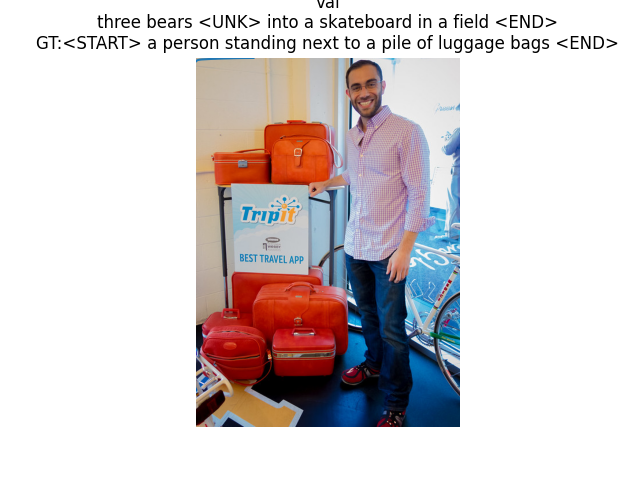
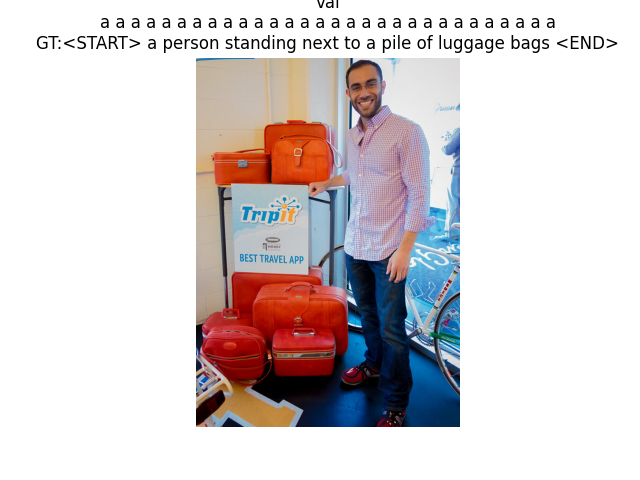
swiglu done

Changed region(s): [[0.1562, 0.0312, 0.875, 0.0625]]

diff --git a/transformer_captioning/transformer.py b/transformer_captioning/transformer.py
@@ -6,6 +6,24 @@ import torch
 import torch.nn as nn
 from torch.nn import functional as F
 
+class SwiGLU(nn.Module):
+    def __init__(self, input_dim=None, hidden_dim=None):
+        super().__init__()
+
+        self.filter = nn.Linear(input_dim, hidden_dim)
+        self.input_proj = nn.Linear(input_dim, hidden_dim)
+        self.output_proj = nn.Linear(hidden_dim, input_dim)
+
+    def forward(self, x):
+        filter = self.filter(x)
+        input = self.input_proj(x)
+
+        out = F.silu(filter) * input
+
+        out = self.output_proj(out)
+
+        return out
+    
 class AttentionLayer(nn.Module):
 
     def __init__(self, embed_dim, dropout=0.1):
@@ -155,7 +173,8 @@ class FeedForwardBlock(nn.Module):
         # MLP has the following layers : linear, relu, dropout, linear ; hidden dim of linear is given by dim_feedforward
         self.mlp = nn.Sequential(
             nn.Linear(input_dim, dim_feedforward),
-            nn.ReLU(),
+            # nn.ReLU(),
+            SwiGLU(dim_feedforward, dim_feedforward),
             nn.Dropout(dropout),
             nn.Linear(dim_feedforward, input_dim)
         )

diff --git a/transformer_captioning/run.py b/transformer_captioning/run.py
@@ -7,7 +7,7 @@ from transformer import TransformerDecoder
 from matplotlib import pyplot as plt
 
 set_all_seeds(42) ### DO NOT CHANGE THIS LINE
-exp_name = 'case3'
+exp_name = 'swiglu'
 
 train_dataset = CocoDataset(load_coco_data(max_train=1024), 'train')
 train_dataloader =  DataLoader(train_dataset, batch_size=64)
@@ -30,7 +30,7 @@ transformer = TransformerDecoder(
 
 trainer = Trainer(transformer, train_dataloader, val_dataloader,
           num_epochs=100,
-          learning_rate=1e-3,
+          learning_rate=1e-4,
           device = device
         )
 
